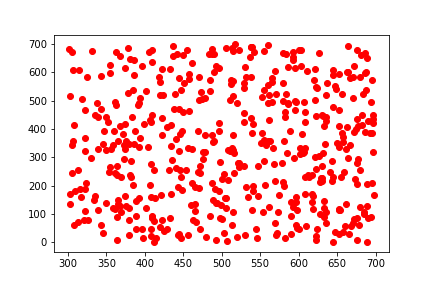
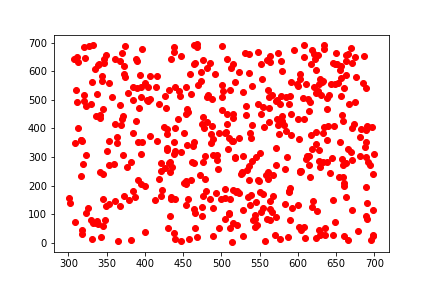
Code done but lot to do

diff --git a/HW1/code/sensor_model.py b/HW1/code/sensor_model.py
@@ -7,6 +7,7 @@
 import numpy as np
 import math
 import time
+import random
 from matplotlib import pyplot as plt
 from scipy.stats import norm
 
@@ -23,10 +24,10 @@ class SensorModel:
         TODO : Tune Sensor Model parameters here
         The original numbers are for reference but HAVE TO be tuned.
         """
-        self._z_hit = 1
-        self._z_short = 0.1
-        self._z_max = 0.1
-        self._z_rand = 100
+        self._z_hit = 0.4
+        self._z_short = 0.15
+        self._z_max = 0.3
+        self._z_rand = 0.15
 
         self._sigma_hit = 50
         self._lambda_short = 0.1
@@ -69,12 +70,47 @@ class SensorModel:
         
     
     #https://www.codegrepper.com/code-examples/python/python+bresenham+line+algorithm
+
+    def true_range(self, points):
+              
+        
+        x1, y1 = points[0]
+        
+        for i, point in enumerate(points):
+            x, y = point
+            x = np.int(np.round(x/10))
+            y = np.int(np.round(y/10))
+            # print("x, y", x, y)
+            m = self._map[x, y]
+            # print("m", m)
+            prob = random.choices([0,1], weights = (100*(1-m), 100*m), k = 1)
+            # print("prob", prob)
+            # print(m, prob)
+            
+            if(prob[0] == 1):
+                distance = np.sqrt((x - x1)**2 + (y - y1)**2)
+                break
+            
+            else:
+                distance = self._max_range/10
+            
+        return distance
+        
+           
+    
     def bresenham(self, x1, y1, x2, y2):
+        
+        x1 = np.int(np.round(x1))
+        y1 = np.int(np.round(y1))
+        x2 = np.int(np.round(x2))
+        y2 = np.int(np.round(y2))
         
         dx = x2 - x1
         dy = y2 - y1
         
-        if (abs(dy) > abs(dx)):
+        slopedir = abs(dy) - abs(dx)
+        
+        if (slopedir > 0):
             x1, y1 = y1, x1
             x2, y2 = y2, x2
             
@@ -91,44 +127,32 @@ class SensorModel:
         ystep = 1 if y1 < y2 else -1
         
         y = y1
-        pointsx = []
-        pointsy = []
+        # pointsx = []
+        points = []
         
         for x in range(x1, x2 + 1):
             
-            if (abs(dy) > abs(dx)):
-                coordx = y
-                coordy = x
+            if (slopedir > 0):
+                coord = (y,x)
+                # coord = x
                 
             else:
-                coordx = x
-                coordy = y
+                coord = (x,y)
+                # coordy = y
                 
-            pointsx.append(coordx)
-            pointsy.append(coordy)
-            
-            m = self._map[coordx, coordy]
-            
-            prob = np.random.choices([0,1], weights = (100*(1-m), 100*m), k = 1)
-            
-            if(prob == 1):
-                distance = np.sqrt((coordx - x1)**2 + (coordy - y1)**2)
-                return distance
-                break
-            else:
-                continue
-            
-                
+            points.append(coord)
+            # pointsy.append(coordy)
+  
             error -= abs(dy)
             if error < 0:
                 y += ystep
                 error += dx
                 
-            if swapped:
-                pointsx.reverse()
-                pointsy.reverse()
+        if swapped:
+            points.reverse()
+            # pointsy.reverse()
                 
-        return self._max_range/10
+        return points
     
     
     def endpoint(self, x1, y1, theta1, k):
@@ -158,12 +182,14 @@ class SensorModel:
         zrand = self._z_rand
         
         for k in range(1, K+1):
-            z_t = z_t1_arr[k]
+            z_t = z_t1_arr[k-1]
             x1, y1, theta1 =  x_t1[0], x_t1[1], x_t1[2]
             x2, y2 = self.endpoint(x1, y1, theta1, k)
-            z_star = self.bresenham(x1, y1, x2, y2)
             
-            phit = self.phit(z_star)
+            points = self.bresenham(x1, y1, x2, y2)
+            z_star = self.true_range(points)
+            
+            phit = self.p_hit(z_star)
             pshort = self.p_short(z_star, z_t)
             pmax = self.p_max(z_t)
             prand = self.p_rand(z_t)
@@ -174,6 +200,20 @@ class SensorModel:
                 
         prob_zt1 = q
         return prob_zt1
+    
+    
+if __name__ == "__main__":
+        
+    path_map ='../data/map/wean.dat'
+    map_obj = MapReader(path_map)
+    occupancy_map = map_obj.get_map()
+        
+    sensor = SensorModel(occupancy_map)
+        
+    # points = sensor.bresenham(200,500, 100, 600)
+    # distance = sensor.true_range(points)
+    # print(points)
+    # print(distance)
 
 
 

diff --git a/HW1/code/resampling.py b/HW1/code/resampling.py
@@ -5,6 +5,7 @@
 '''
 
 import numpy as np
+import random
 
 
 class Resampling:
@@ -16,6 +17,7 @@ class Resampling:
         """
         TODO : Initialize resampling process parameters here
         """
+        
 
     def multinomial_sampler(self, X_bar):
         """
@@ -25,7 +27,47 @@ class Resampling:
         """
         TODO : Add your code here
         """
+        num_particles = X_bar.shape[0]
+        
         X_bar_resampled =  np.zeros_like(X_bar)
+        
+        wts = X_bar[:,3]
+        
+        freq = np.random.multinomial(num_particles, wts/np.sum(wts))
+        print(freq)
+        a = 0
+        # b = 0
+        # count = 0
+        for i in range(num_particles):
+            
+            
+            
+        
+            # if(freq[i] > 0):
+                
+            #     X_bar_resampled[b] = X_bar[count]
+            
+            #     a += 1
+            #     b += 1
+            #     if(a > freq[i]):
+            #         a = 0
+            #         count += 1
+                    
+            # elif(freq[i] == 0):
+            #         count += 1
+            
+            resampled = []
+            
+            if(freq[i] > 0):
+                arr = np.tile(X_bar[i], (freq[i], 1))
+                # print(arr.shape)
+                X_bar_resampled[a: a + freq[i]] = arr
+                
+                a += freq[i]
+                # print("a =", a)
+                # print("    ")
+       
+        X_bar_resampled[:,3] = np.ones(num_particles).reshape(1, num_particles)
         return X_bar_resampled
 
     def low_variance_sampler(self, X_bar):
@@ -36,5 +78,39 @@ class Resampling:
         """
         TODO : Add your code here
         """
+        num_particles = X_bar.shape[0]
+        
         X_bar_resampled =  np.zeros_like(X_bar)
+        
+        r = random.uniform(0, 1/num_particles)
+        w = X_bar[:,3]/np.sum(X_bar[:,3])
+        
+        c = w[0]
+        i = 0
+        a = 0
+        for j in range(num_particles):
+            U = r + j*(1/num_particles)
+            while(U > c):
+                i += 1
+                # print("i = ",i)
+                c += w[i]
+                
+            X_bar_resampled[a] = X_bar[i]
+            a+=1
+        
+        X_bar_resampled[:,3] = np.ones(num_particles).reshape(1, num_particles)
+        
         return X_bar_resampled
+    
+    
+if __name__ == "__main__":
+    
+    sampler = Resampling()
+    
+    X_bar = (np.arange(40)).reshape(10,4)
+    X_bar[9:10, 3] = 500
+    print(X_bar)
+    
+    X_bar_resampled = sampler.low_variance_sampler(X_bar)
+    print(X_bar_resampled)
+    

diff --git a/HW1/code/bresenham.py b/HW1/code/bresenham.py
@@ -21,7 +21,9 @@ def bresenham(x1, y1, x2, y2, map_coord):
         dx = x2 - x1
         dy = y2 - y1
         
-        if (abs(dy) > abs(dx)):
+        slopedir = abs(dy) - abs(dx)
+        
+        if (slopedir > 0):
             x1, y1 = y1, x1
             x2, y2 = y2, x2
             
@@ -43,7 +45,7 @@ def bresenham(x1, y1, x2, y2, map_coord):
         
         for x in range(x1, x2 + 1):
             
-            if (abs(dy) > abs(dx)):
+            if (slopedir > 0):
                 coordx = y
                 coordy = x
                 
@@ -54,30 +56,31 @@ def bresenham(x1, y1, x2, y2, map_coord):
             pointsx.append(coordx)
             pointsy.append(coordy)
             
-            ############################
-            # m = map_coord[coordy, coordx]
+            ###########################
+            m = map_coord[coordy, coordx]
             
-            # prob = random.choices([0,1], weights = (100*(1-m), 100*m), k = 1)
+            prob = random.choices([0,1], weights = (100*(1-m), 100*m), k = 1)
             # print(m, prob)
             
-            # if(prob == 1):
-            #     distance = np.sqrt((coordx - x1)**2 + (coordy - y1)**2)
-            #     return distance
-            #     break
-            # else:
-            #     continue
-            # ############################
+            if(prob == 1):
+                distance = np.sqrt((coordx - x1)**2 + (coordy - y1)**2)
+                return distance
+                break
+            else:
+                continue
+            ############################
                 
             error -= abs(dy)
             if error < 0:
                 y += ystep
                 error += dx
                 
-            if swapped:
-                pointsx.reverse()
-                pointsy.reverse()
+        if swapped:
+            pointsx.reverse()
+            pointsy.reverse()
                 
         return pointsx, pointsy
+
 
 map_coord = np.array([[0.9, 0.1, 0.9, 0.4, 1],
              [0.6, 0.1, 0.9, 0.4, 1],

diff --git a/HW1/code/main.py b/HW1/code/main.py
@@ -167,17 +167,17 @@ if __name__ == '__main__':
             else:
                 X_bar_new[m, :] = np.hstack((x_t1, X_bar[m, 3]))
 
-        #X_bar = X_bar_new
+        X_bar = X_bar_new
         
         u_t0 = u_t1
 
         """
         RESAMPLING
         """
-        #X_bar = resampler.low_variance_sampler(X_bar)
+        X_bar = resampler.low_variance_sampler(X_bar)
 
         # if args.visualize:
-        # visualize_timestep(X_bar, time_idx, args.output)
+        visualize_timestep(X_bar, time_idx, args.output)
 
     visualize_map(occupancy_map)
     plt.scatter(X_bar[:,0], X_bar[:,1])
